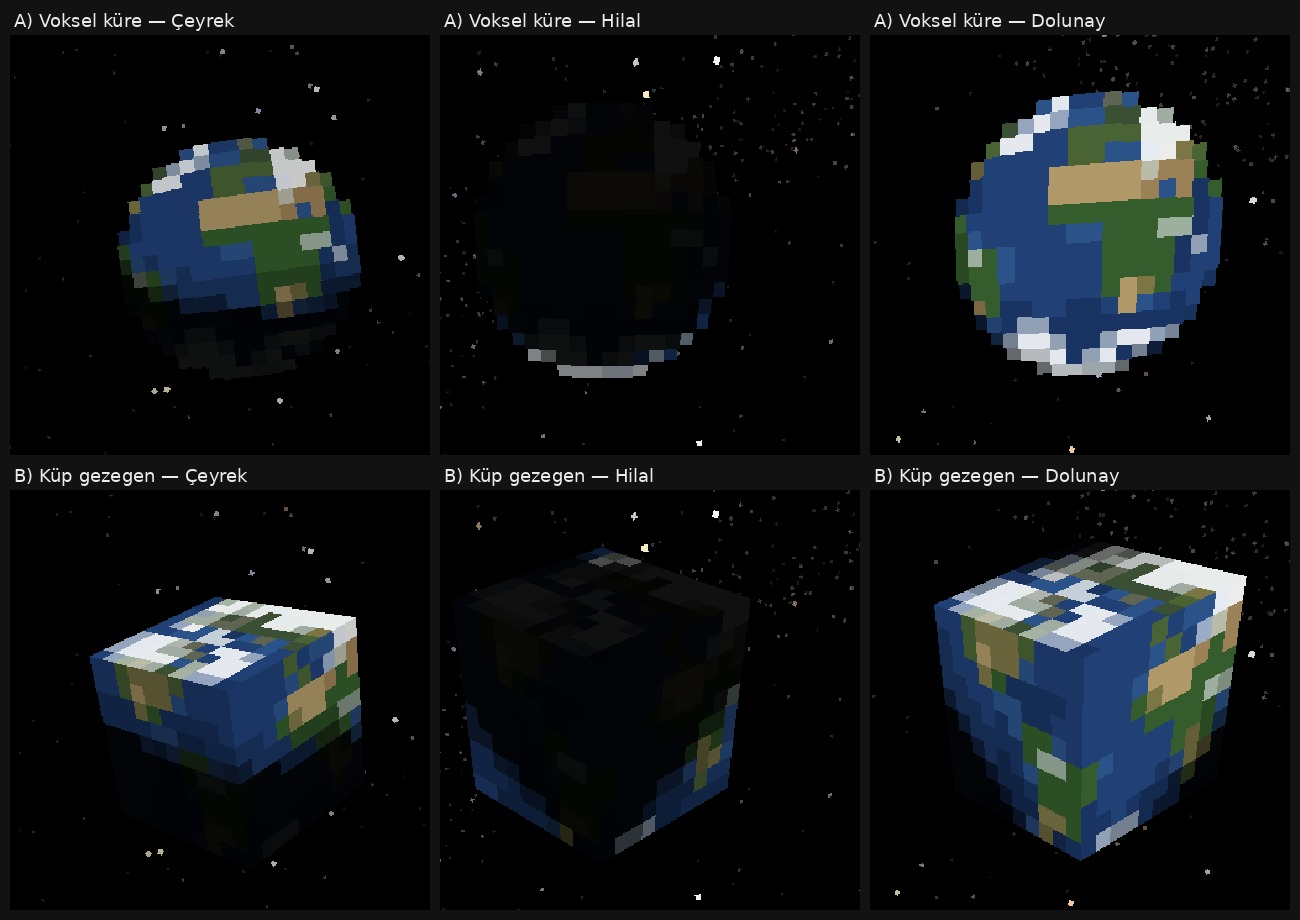
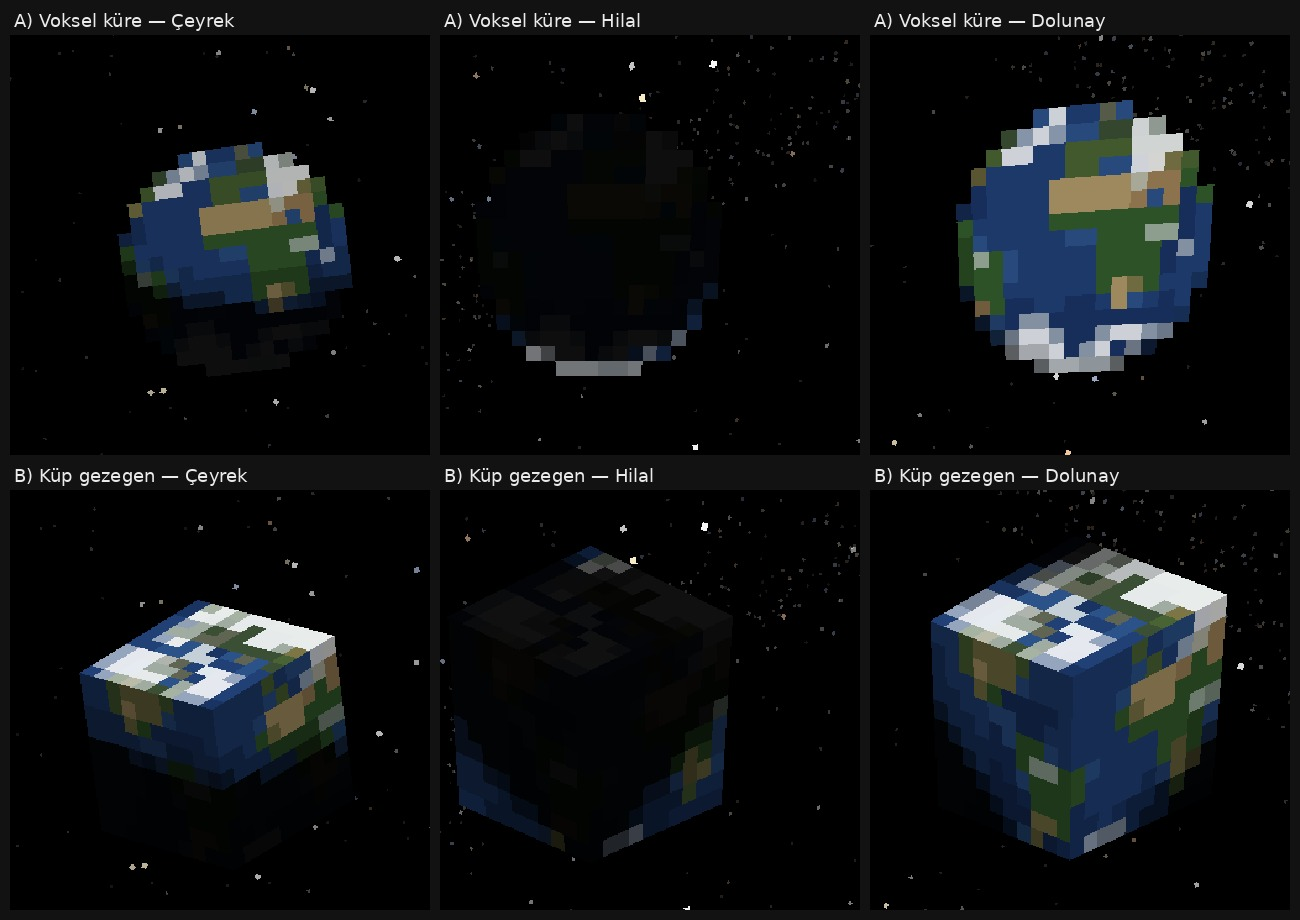
Blocky planets: flattened along the line of sight so cubes keep straight edges; Minecraft side shading on block faces

diff --git a/src/main/java/com/pizzaparker07/spacebreaker/client/sky/BlockyBodyRenderer.java b/src/main/java/com/pizzaparker07/spacebreaker/client/sky/BlockyBodyRenderer.java
@@ -171,6 +171,15 @@ public final class BlockyBodyRenderer {
                                float tint, float alpha, Ring ring, Vector3f viewDir) {
         Matrix3f rot = body.rotation(style);
         Vector3f s = new Vector3f(sun).normalize();
+        // line of sight to the body, and "up" on screen around it (for Minecraft's block shading: tops light, sides darker)
+        Vector3f look = viewDir != null ? new Vector3f(viewDir) : new Vector3f(body.center()).normalize();
+        Vector3f screenUp = viewDir != null ? new Vector3f(0, -1, 0) : new Vector3f(0, 1, 0);
+        screenUp.sub(new Vector3f(look).mul(look.dot(screenUp)));
+        if (screenUp.lengthSquared() < 1e-6F) {
+            screenUp.set(0, 0, -1);
+        }
+        screenUp.normalize();
+        Vector3f screenRight = new Vector3f(look).cross(screenUp).normalize();
         List<Quad> quads = new ArrayList<>();
         List<BlockyBodyMesh.Face> faces = BlockyBodyMesh.body(style, n);
         int[] colours = colours(map, faces, false);
@@ -182,8 +191,9 @@ public final class BlockyBodyRenderer {
             if (toward >= 0) {
                 continue; // faces away from the viewer
             }
-            float light = BlockyBodyMesh.light(rot.transform(new Vector3f(f.surface())), normal, s, night) * tint;
-            quads.add(quad(f, rot, body, colours[i], light, alpha, viewDir));
+            float light = BlockyBodyMesh.light(rot.transform(new Vector3f(f.surface())), normal, s, night)
+                    * BlockyBodyMesh.blockShade(normal.dot(screenUp), normal.dot(screenRight)) * tint;
+            quads.add(quad(f, rot, body, colours[i], light, alpha, viewDir, look));
         }
         if (ring != null) {
             List<BlockyBodyMesh.Face> tiles = BlockyBodyMesh.ring(ring.inner(), ring.outer(), Math.max(24, n * 3));
@@ -198,7 +208,7 @@ public final class BlockyBodyRenderer {
                 Vector3f normal = rot.transform(new Vector3f(0, 1, 0));
                 float lit = shadow ? night : Math.max(night, 0.55F + 0.45F * Math.abs(normal.dot(s)));
                 int c = bands[i];
-                quads.add(quad(f, rot, body, c, lit * tint, alpha * ((c >>> 24) / 255F), viewDir));
+                quads.add(quad(f, rot, body, c, lit * tint, alpha * ((c >>> 24) / 255F), viewDir, look));
             }
         }
         if (quads.isEmpty()) {
@@ -237,16 +247,32 @@ public final class BlockyBodyRenderer {
         }
     }
 
-    private static Quad quad(BlockyBodyMesh.Face f, Matrix3f rot, Pose body, int rgb, float light, float alpha, Vector3f viewDir) {
+    /**
+     * How much of a body's depth is kept when it is drawn: a big body close to the camera would otherwise bulge like a
+     * pillow in perspective. Flattened along the line of sight it looks like an item in a picture, with straight edges,
+     * while the small depth left keeps its faces correctly in front of each other.
+     */
+    static final float DEPTH_KEPT = 0.04F;
+
+    private static Quad quad(BlockyBodyMesh.Face f, Matrix3f rot, Pose body, int rgb, float light, float alpha, Vector3f viewDir,
+                             Vector3f look) {
         Vector3f c = rot.transform(new Vector3f(f.center())).mul(body.radius()).add(body.center());
         Vector3f u = rot.transform(new Vector3f(f.u())).mul(body.radius());
         Vector3f v = rot.transform(new Vector3f(f.v())).mul(body.radius());
         float[] xyz = new float[12];
         int k = 0;
         for (float[] s : new float[][]{{-1, -1}, {1, -1}, {1, 1}, {-1, 1}}) {
-            xyz[k++] = c.x + u.x * s[0] + v.x * s[1];
-            xyz[k++] = c.y + u.y * s[0] + v.y * s[1];
-            xyz[k++] = c.z + u.z * s[0] + v.z * s[1];
+            Vector3f p = new Vector3f(c).add(new Vector3f(u).mul(s[0])).add(new Vector3f(v).mul(s[1]));
+            if (viewDir == null) {
+                // offset from the body centre: keep its sideways part, squeeze its depth
+                Vector3f d = p.sub(body.center());
+                float along = d.dot(look);
+                d.sub(new Vector3f(look).mul(along * (1 - DEPTH_KEPT)));
+                p = d.add(body.center());
+            }
+            xyz[k++] = p.x;
+            xyz[k++] = p.y;
+            xyz[k++] = p.z;
         }
         float l = Mth.clamp(light, 0, 1);
         int r = (int) ((rgb >> 16 & 255) * l);

diff --git a/src/main/java/com/pizzaparker07/spacebreaker/content/worldgen/BlockyBodyMesh.java b/src/main/java/com/pizzaparker07/spacebreaker/content/worldgen/BlockyBodyMesh.java
@@ -153,6 +153,27 @@ public final class BlockyBodyMesh {
         return Math.max(night, lit * side);
     }
 
+    /**
+     * Minecraft's block shading by which way a face points on screen: faces turned up are lit fully, faces toward the
+     * viewer nearly so, sideways ones darker and those turned down darkest, so a ball of blocks reads as a solid and
+     * not as a flat disc.
+     *
+     * @param up   dot product of the face normal with the screen's up direction
+     * @param side dot product of the face normal with the screen's right direction
+     */
+    public static float blockShade(float up, float side) {
+        if (up > 0.5F) {
+            return 1F;
+        }
+        if (up < -0.5F) {
+            return 0.55F;
+        }
+        if (Math.abs(side) > 0.5F) {
+            return 0.7F;
+        }
+        return 0.9F;
+    }
+
     /** Longitude (radians, -pi..pi, 0 toward +Z, east toward +X) and latitude of a body-space direction. */
     public static double longitude(Vector3f d) {
         return Math.atan2(d.x, d.z);
